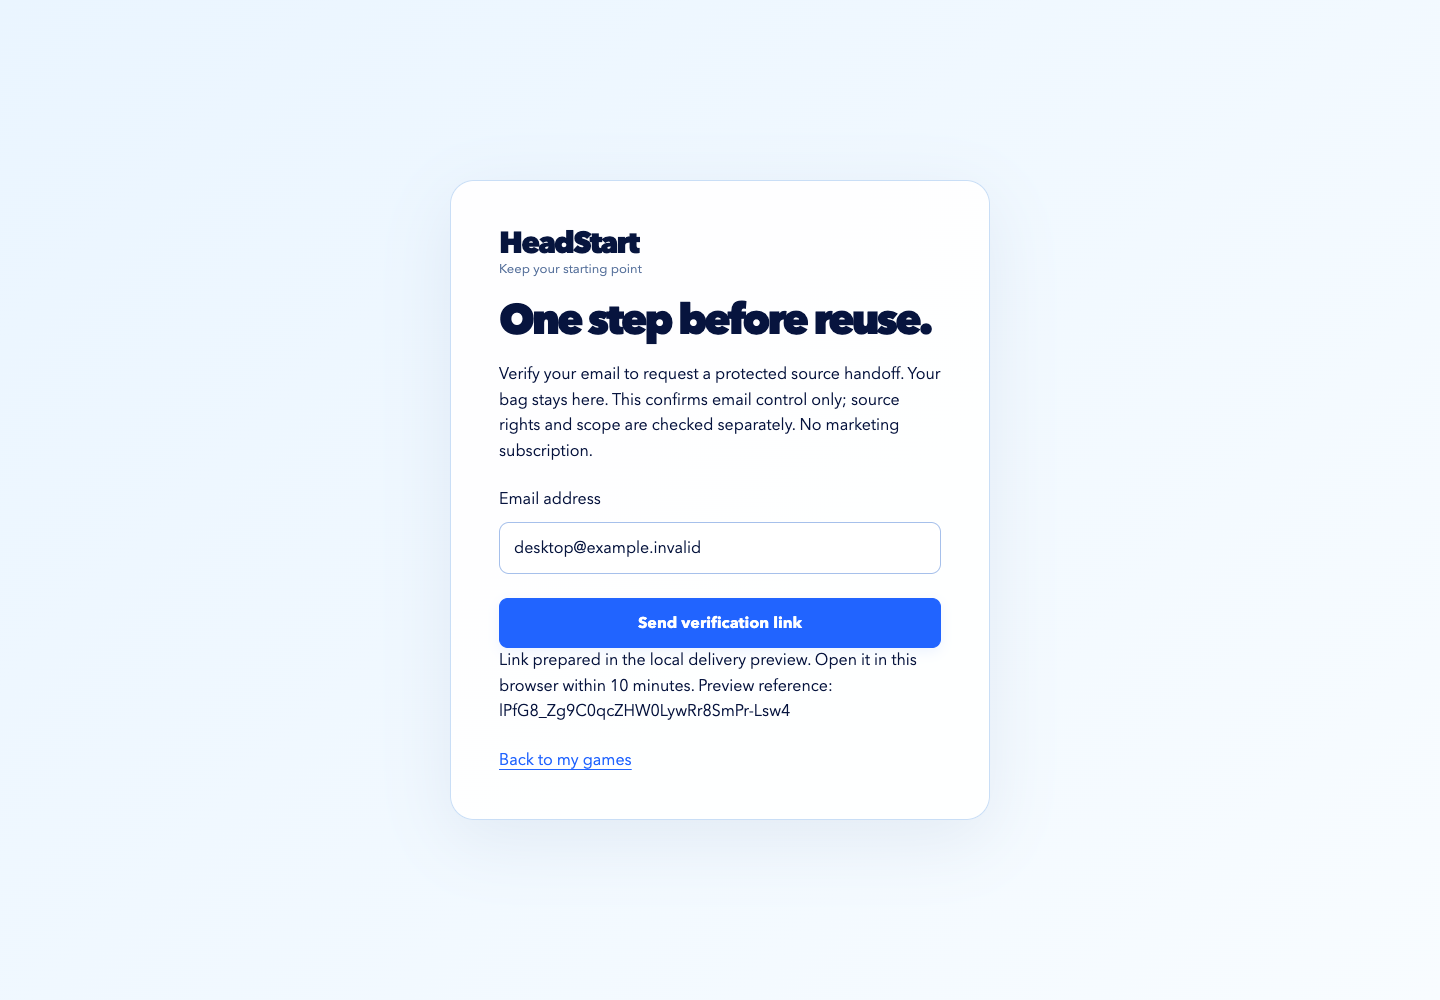
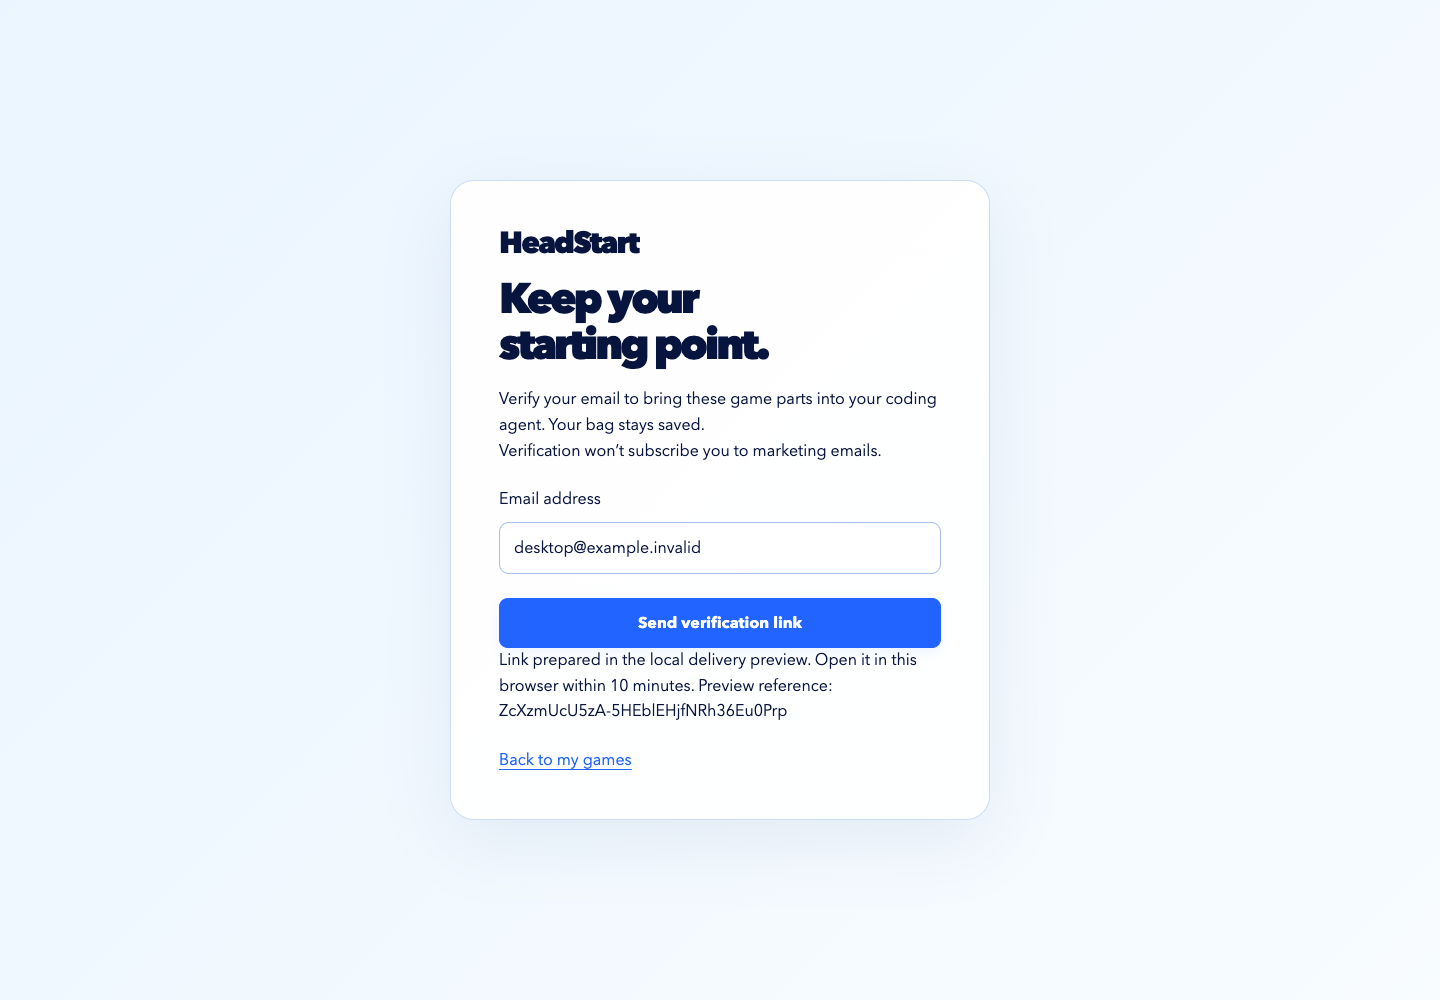
Simplify verification copy in the selected C4 style

Changed region(s): [[0.3438, 0.248, 0.6562, 0.465], [0.3438, 0.682, 0.5312, 0.713]]

diff --git a/HeadStart-Starter-Package/site/dist/auth.html b/HeadStart-Starter-Package/site/dist/auth.html
@@ -1,1 +1,1 @@
-<!doctype html><html lang="en"><head><meta charset="utf-8"><meta name="viewport" content="width=device-width,initial-scale=1"><meta name="referrer" content="no-referrer"><meta http-equiv="Content-Security-Policy" content="default-src 'self'; script-src 'self'; style-src 'self'; img-src 'self'; connect-src 'self'; base-uri 'none'; form-action 'self'; object-src 'none'"><title>Verify your email · HeadStart</title><link rel="stylesheet" href="styles.css"><link rel="stylesheet" href="auth.css"><script src="auth.js" defer></script></head><body class="auth-page"><main class="auth-card"><a class="brand" href="/#games">HeadStart</a><p class="section-kicker">Keep your starting point</p><h1>One step before reuse.</h1><p>Verify your email to request a protected source handoff. Your bag stays here. This confirms email control only; source rights and scope are checked separately. No marketing subscription.</p><form id="auth-form"><label for="auth-email">Email address</label><input id="auth-email" type="email" autocomplete="email" required maxlength="254"><button class="primary" type="submit">Send verification link</button></form><p id="auth-status" role="status" aria-live="polite"></p><button id="auth-confirm" class="primary" hidden>Verify and return to my bag</button><button id="auth-connect" class="primary" hidden>Approve local MCP access</button><button id="auth-logout" class="secondary" hidden>Sign out</button><a href="/#games" class="auth-return">Back to my games</a></main></body></html>
+<!doctype html><html lang="en"><head><meta charset="utf-8"><meta name="viewport" content="width=device-width,initial-scale=1"><meta name="referrer" content="no-referrer"><meta http-equiv="Content-Security-Policy" content="default-src 'self'; script-src 'self'; style-src 'self'; img-src 'self'; connect-src 'self'; base-uri 'none'; form-action 'self'; object-src 'none'"><title>Verify your email · HeadStart</title><link rel="stylesheet" href="styles.css"><link rel="stylesheet" href="auth.css"><script src="auth.js" defer></script></head><body class="auth-page"><main class="auth-card"><a class="brand" href="/#games">HeadStart</a><h1>Keep your starting point.</h1><p>Verify your email to bring these game parts into your coding agent. Your bag stays saved.</p><p>Verification won’t subscribe you to marketing emails.</p><form id="auth-form"><label for="auth-email">Email address</label><input id="auth-email" type="email" autocomplete="email" required maxlength="254"><button class="primary" type="submit">Send verification link</button></form><p id="auth-status" role="status" aria-live="polite"></p><button id="auth-confirm" class="primary" hidden>Verify and return to my bag</button><button id="auth-connect" class="primary" hidden>Approve local MCP access</button><button id="auth-logout" class="secondary" hidden>Sign out</button><a href="/#games" class="auth-return">Back to my games</a></main></body></html>
